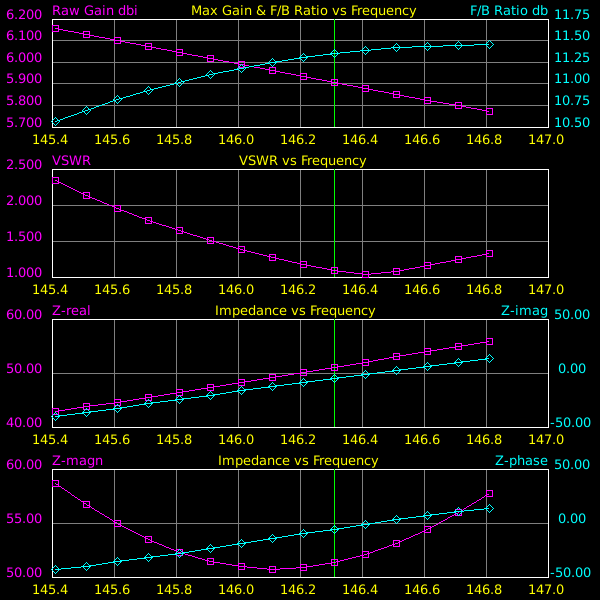
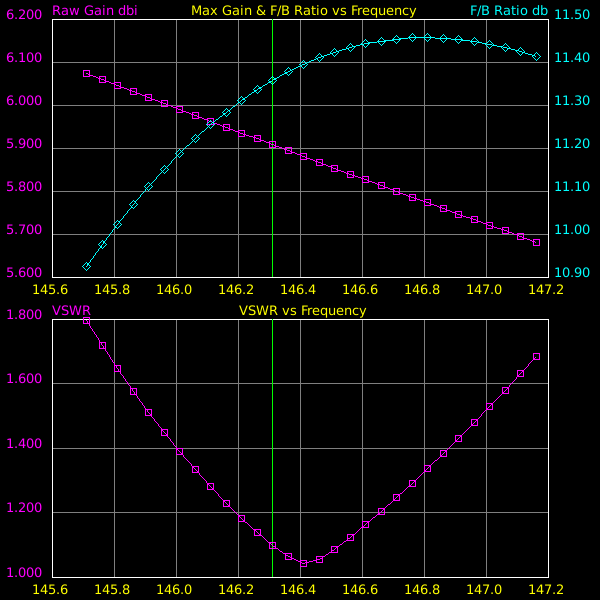
same #'s as before, new plot, SWR < 1.5 for 145.92 - 146.97

diff --git a/2m-2el-146.310.py b/2m-2el-146.310.py
@@ -20,8 +20,8 @@ Wide FR:
 FR     0    13     0      0  1.43000E+02  5.00000E-01  1.49000E+02  0.00000E+00  0.00000E+00  0.00000E+00
 Narrow FR:
 FR     0    11     0      0  1.45000E+02  2.00000E-01  1.47000E+02  0.00000E+00  0.00000E+00  0.00000E+00
-Narrower FR:
 FR     0    15     0      0  1.45410E+02  1.00000E-01  1.46710E+02  0.00000E+00  0.00000E+00  0.00000E+00
+FR     0    30     0     0  1.45710E+02  5.00000E-02  1.47210E+02  0.00000E+00  0.00000E+00  0.00000E+00
 '''
 footer = '''
 GE     0     0  0.00000E+00  0.00000E+00  0.00000E+00  0.00000E+00  0.00000E+00  0.00000E+00  0.00000E+00
@@ -29,7 +29,7 @@ NH     0     0     0      0  0.00000E+00  0.00000E+00  0.00000E+00  0.00000E+00 
 EX     0     5     1      0  1.00000E+00  0.00000E+00  0.00000E+00  0.00000E+00  0.00000E+00  0.00000E+00
 NE     0    10     1     10 -1.35000E+00  0.00000E+00 -1.35000E+00  3.00000E-01  0.00000E+00  3.00000E-01
 RP     0    19    37      0  0.00000E+00  0.00000E+00  1.00000E+01  1.00000E+01  0.00000E+00  0.00000E+00
-FR     0    15     0      0  1.45410E+02  1.00000E-01  1.46710E+02  0.00000E+00  0.00000E+00  0.00000E+00
+FR     0    30     0     0  1.45710E+02  5.00000E-02  1.47210E+02  0.00000E+00  0.00000E+00  0.00000E+00
 EN     0     0     0      0  0.00000E+00  0.00000E+00  0.00000E+00  0.00000E+00  0.00000E+00  0.00000E+00
 '''
 
@@ -89,14 +89,12 @@ Constraints:
 
 refY				= 0.0
 refZ                = inch(24.0)
-#refLength           = inch(40.0 + (3.0/8.0))
 refLength           = inch(40.0 + (2.0/8.0))
 
 targetMHz           = 146.310
 velocityFactor      = 0.937   # This is what seems to work from trial and error simulations with 1/8" wires
 quarterWavelength   = m((300.0 * 0.937) / targetMHz) / 4.0 
 arcRadiusC          = inch(0.25)
-#deY                 = inch(5.0 + (3.0/8.0))
 deY                 = inch(5.0 + (2.0/8.0))
 deTopZ              = refZ
 bLength             = ((2.0*quarterWavelength) - (math.pi*arcRadiusC)) / 2.0
